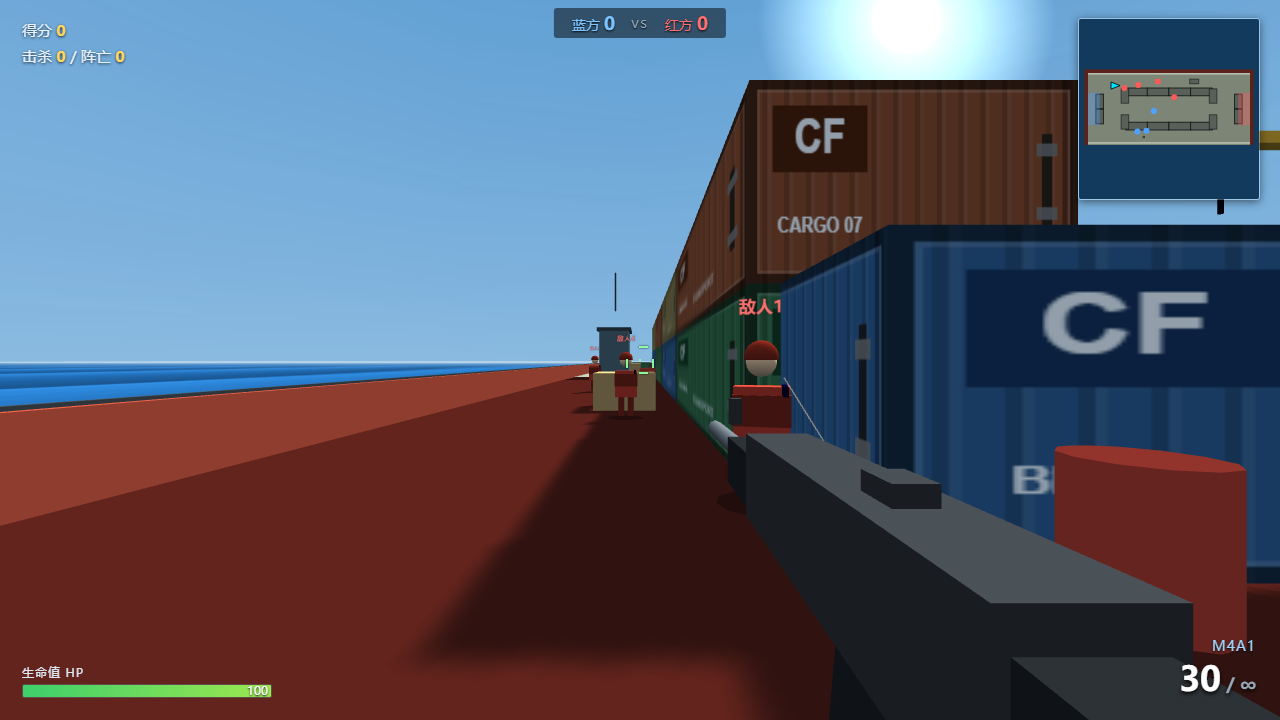
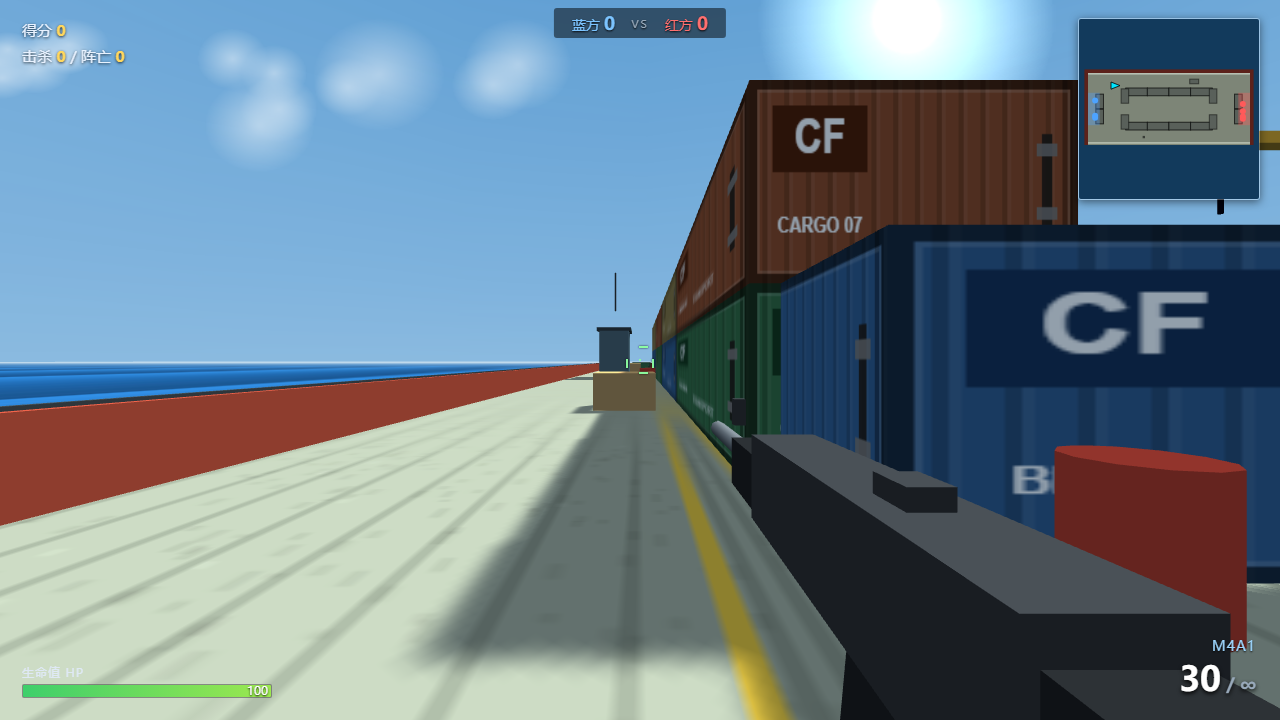
修复地面闪烁：船体下移消除与甲板共面Z-fighting、海面降至-0.9、阴影偏移调优、v1.5

diff --git a/index.html b/index.html
@@ -179,7 +179,7 @@
     <div class="panel">
       <div id="overlayMsg"></div>
       <h1>CF · 运输船</h1>
-      <div class="sub">穿越火线经典地图 · 网页复刻演示 · v1.4</div>
+      <div class="sub">穿越火线经典地图 · 网页复刻演示 · v1.5</div>
       <div class="controls">
         <div><b>WASD</b>移动</div><div><b>鼠标</b>瞄准</div><div><b>左键</b>射击</div>
         <div><b>Shift</b>疾跑</div><div><b>Space</b>跳跃</div><div><b>C</b>下蹲</div>
@@ -259,7 +259,8 @@ sun.shadow.mapSize.set(2048, 2048);
 sun.shadow.camera.left = -80; sun.shadow.camera.right = 80;
 sun.shadow.camera.top = 80;  sun.shadow.camera.bottom = -80;
 sun.shadow.camera.near = 1;  sun.shadow.camera.far = 400;
-sun.shadow.bias = -0.0005;
+sun.shadow.bias = -0.0002;   // 阴影偏移，防止甲板阴影痤疮闪烁
+sun.shadow.normalBias = 0.01;
 scene.add(sun);
 
 function makeGradientTex(w, h, stops){
@@ -328,7 +329,8 @@ const sea = new THREE.Mesh(
   new THREE.PlaneGeometry(1600, 1600),
   new THREE.MeshLambertMaterial({ map:seaTex, color:0x9fc4dd })
 );
-sea.rotation.x = -Math.PI/2; sea.position.y = -0.6;
+sea.rotation.x = -Math.PI/2;
+sea.position.y = -0.9; // 低于船体顶面(-0.6)，避免与船体共面闪烁
 sea.receiveShadow = true;
 scene.add(sea);
 
@@ -437,9 +439,10 @@ function addContainer(x, y, z, sx, sy, sz, mat, collide){
 }
 
 // --- 船体 / 甲板 ---
+// 船体顶面在 y=-0.6（与甲板底面贴合），避免与甲板顶面 y=0 共面产生 Z-fighting 闪烁
 const hullGeo = new THREE.BoxGeometry(94, 7, 42);
 const hull = new THREE.Mesh(hullGeo, [hullMat, hullMat, hullDark, hullDark, hullMat, hullMat]);
-hull.position.set(0, -3.5, 0);
+hull.position.set(0, -4.1, 0);
 hull.receiveShadow = true;
 ship.add(hull);
 obstacleMeshes.push(hull); // 甲板下方
